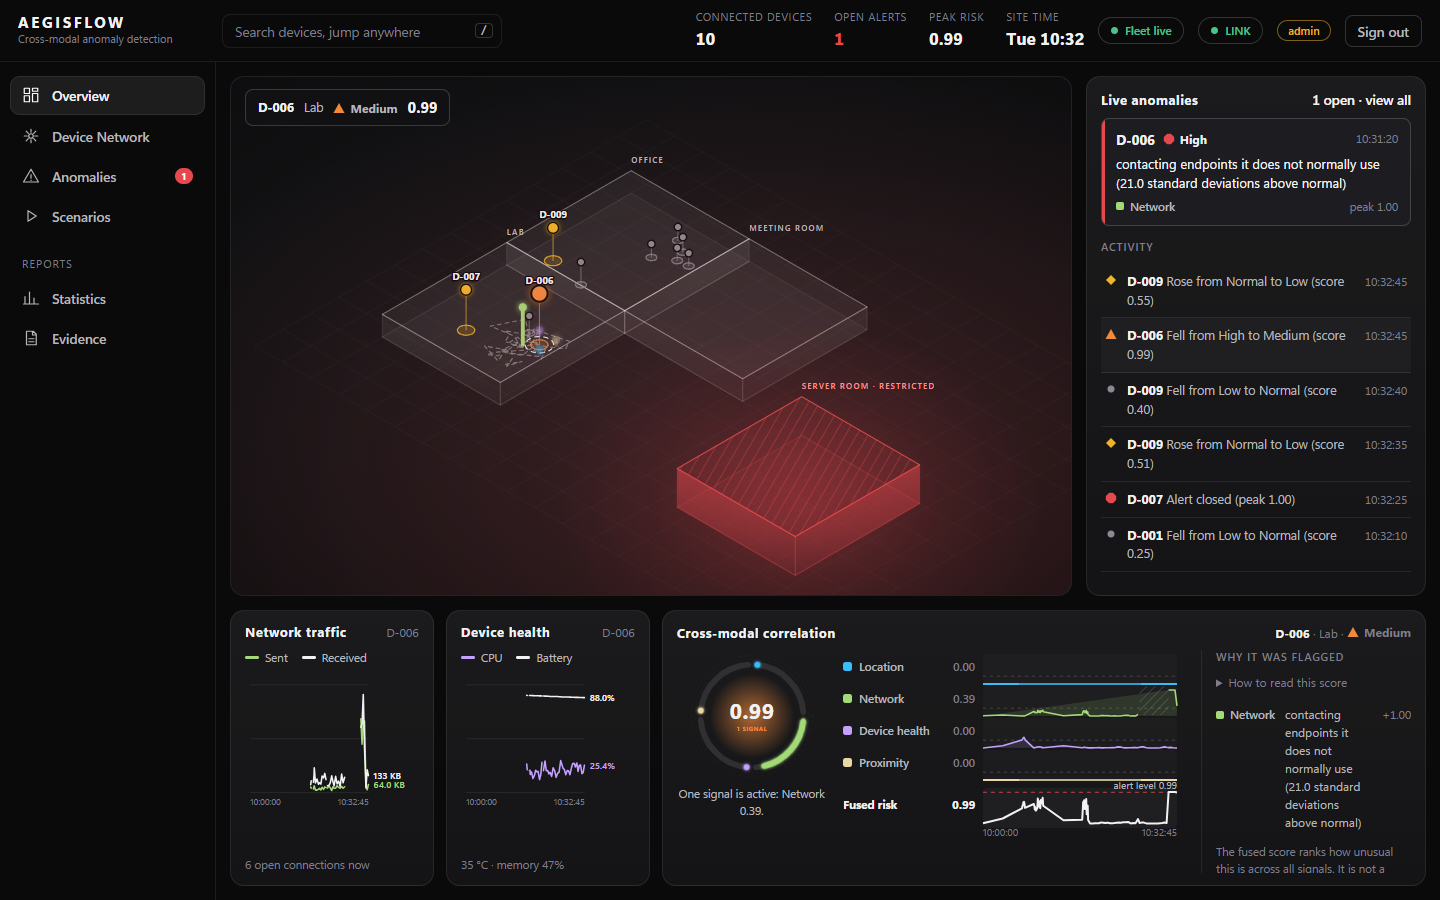
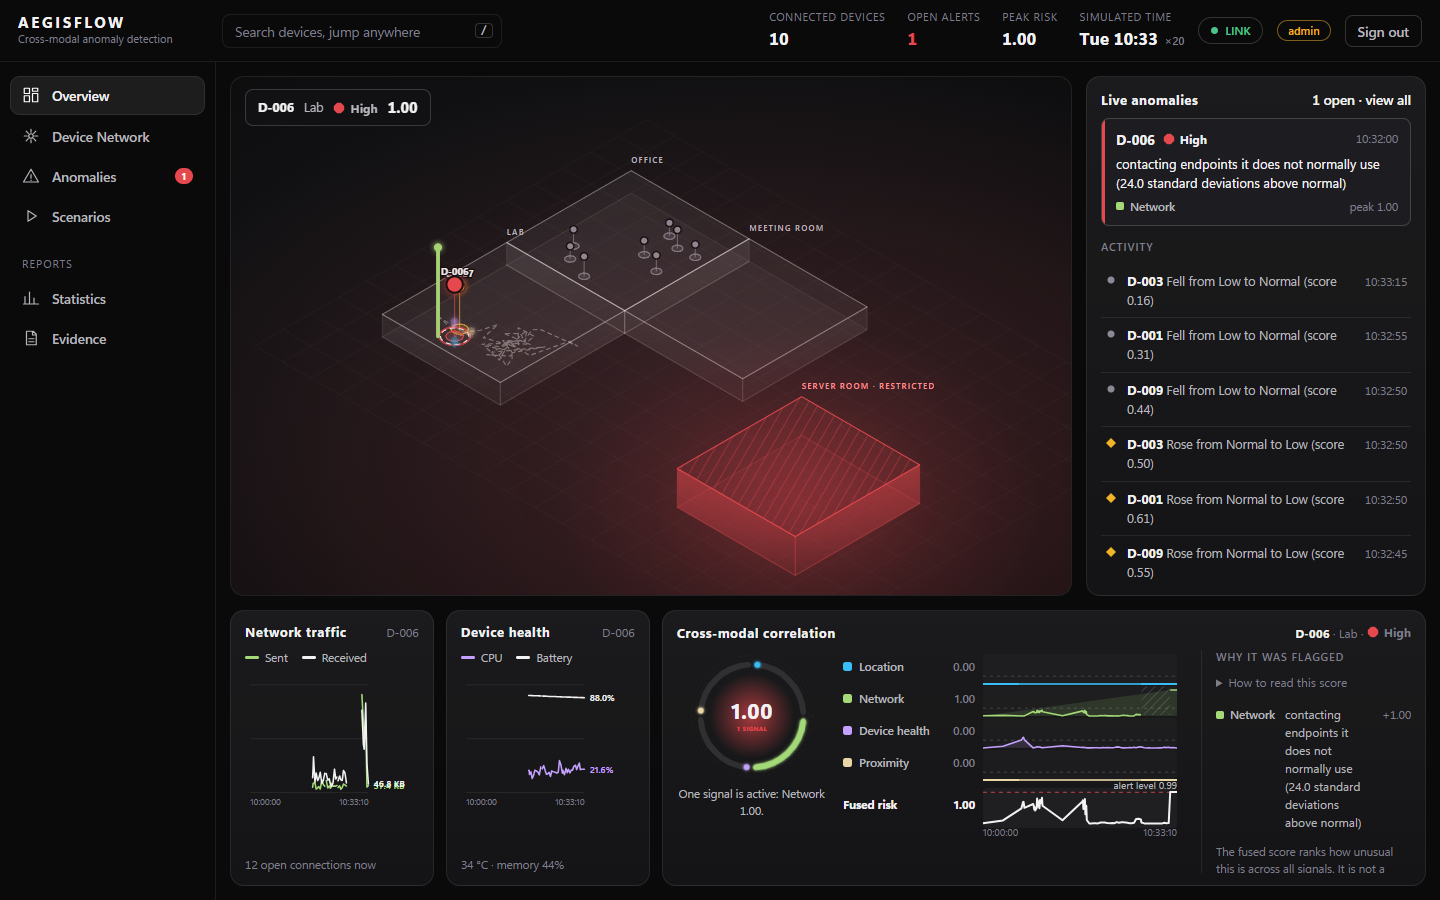
Top bar: label the simulated clock as simulated (with its speed), drop the always-on Fleet live pill; screenshots regenerated

diff --git a/frontend/src/components/TopBar.tsx b/frontend/src/components/TopBar.tsx
@@ -12,7 +12,11 @@ export function TopBar({ live, status, role, onLogout, onPalette }: {
   const degraded = devices.filter((d) => d.observability && d.observability !== 'full').length
   const conn = live.connection
   const demo = status?.demo.state
-  const fleet = demo === 'live' ? ['ok', 'Fleet live'] : demo === 'registering' || demo === 'warming' ? ['warn', 'Calibrating'] : demo === 'error' ? ['bad', 'Fleet error'] : ['idle', 'Fleet offline']
+  // A live fleet is the normal case and idle is just "no demo": the pill only appears when the fleet needs attention.
+  const fleet = demo === 'registering' || demo === 'warming' ? ['warn', 'Calibrating'] : demo === 'error' ? ['bad', 'Fleet error'] : demo === 'stopping' ? ['warn', 'Stopping'] : null
+  // The simulated fleet runs on its own clock, faster than real time; say so instead of calling it the site's time.
+  const simulated = demo === 'live' || demo === 'warming' || demo === 'stopping'
+  const speed = status?.demo.speed
 
   return (
     <header className="top">
@@ -24,9 +28,11 @@ export function TopBar({ live, status, role, onLogout, onPalette }: {
         <div className={open ? 'alert' : ''}><dt>Open alerts</dt><dd>{open}</dd></div>
         {degraded > 0 && <div className="degraded"><dt>Degraded</dt><dd>{degraded}</dd></div>}
         <div><dt>Peak risk</dt><dd>{devices.length ? top.toFixed(2) : '—'}</dd></div>
-        <div><dt>Site time</dt><dd>{latest ? siteDayTime(latest) : '—'}</dd></div>
+        <div title={simulated ? `Simulated clock, running ${speed ?? ''}× real time. Telemetry timestamps, not your computer's clock.` : 'Time of the latest telemetry'}>
+          <dt>{simulated ? 'Simulated time' : 'Site time'}</dt><dd>{latest ? siteDayTime(latest) : '—'}{simulated && speed ? <small> ×{speed}</small> : null}</dd>
+        </div>
       </dl>
-      <span className={`pill ${fleet[0]}`}><i />{fleet[1]}</span>
+      {fleet && <span className={`pill ${fleet[0]}`}><i />{fleet[1]}</span>}
       <span className={`pill ${conn === 'open' ? 'ok' : conn === 'connecting' ? 'warn' : 'bad'}`} role="status"><i />{conn === 'open' ? 'LINK' : conn === 'connecting' ? 'CONNECTING' : 'RECONNECTING'}</span>
       <span className="chip role">{role}</span>
       <button className="ghost" onClick={onLogout}>Sign out</button>

diff --git a/frontend/src/styles.css b/frontend/src/styles.css
@@ -396,3 +396,4 @@ table.data tr.sel td { background: var(--accent-soft); }
 .stage::after { content: ''; position: absolute; inset: 0; pointer-events: none; z-index: 1; opacity: 0; transition: opacity 1.2s ease; background: radial-gradient(900px 520px at 66% 78%, rgba(229, 72, 77, 0.2), rgba(229, 72, 77, 0.06) 55%, transparent 80%); }
 .stage.alerting::after { opacity: 1; }
 .hot-halo { pointer-events: none; }
+.kpis dd small { font-size: 11px; font-weight: 600; color: var(--muted); margin-left: 4px; }
